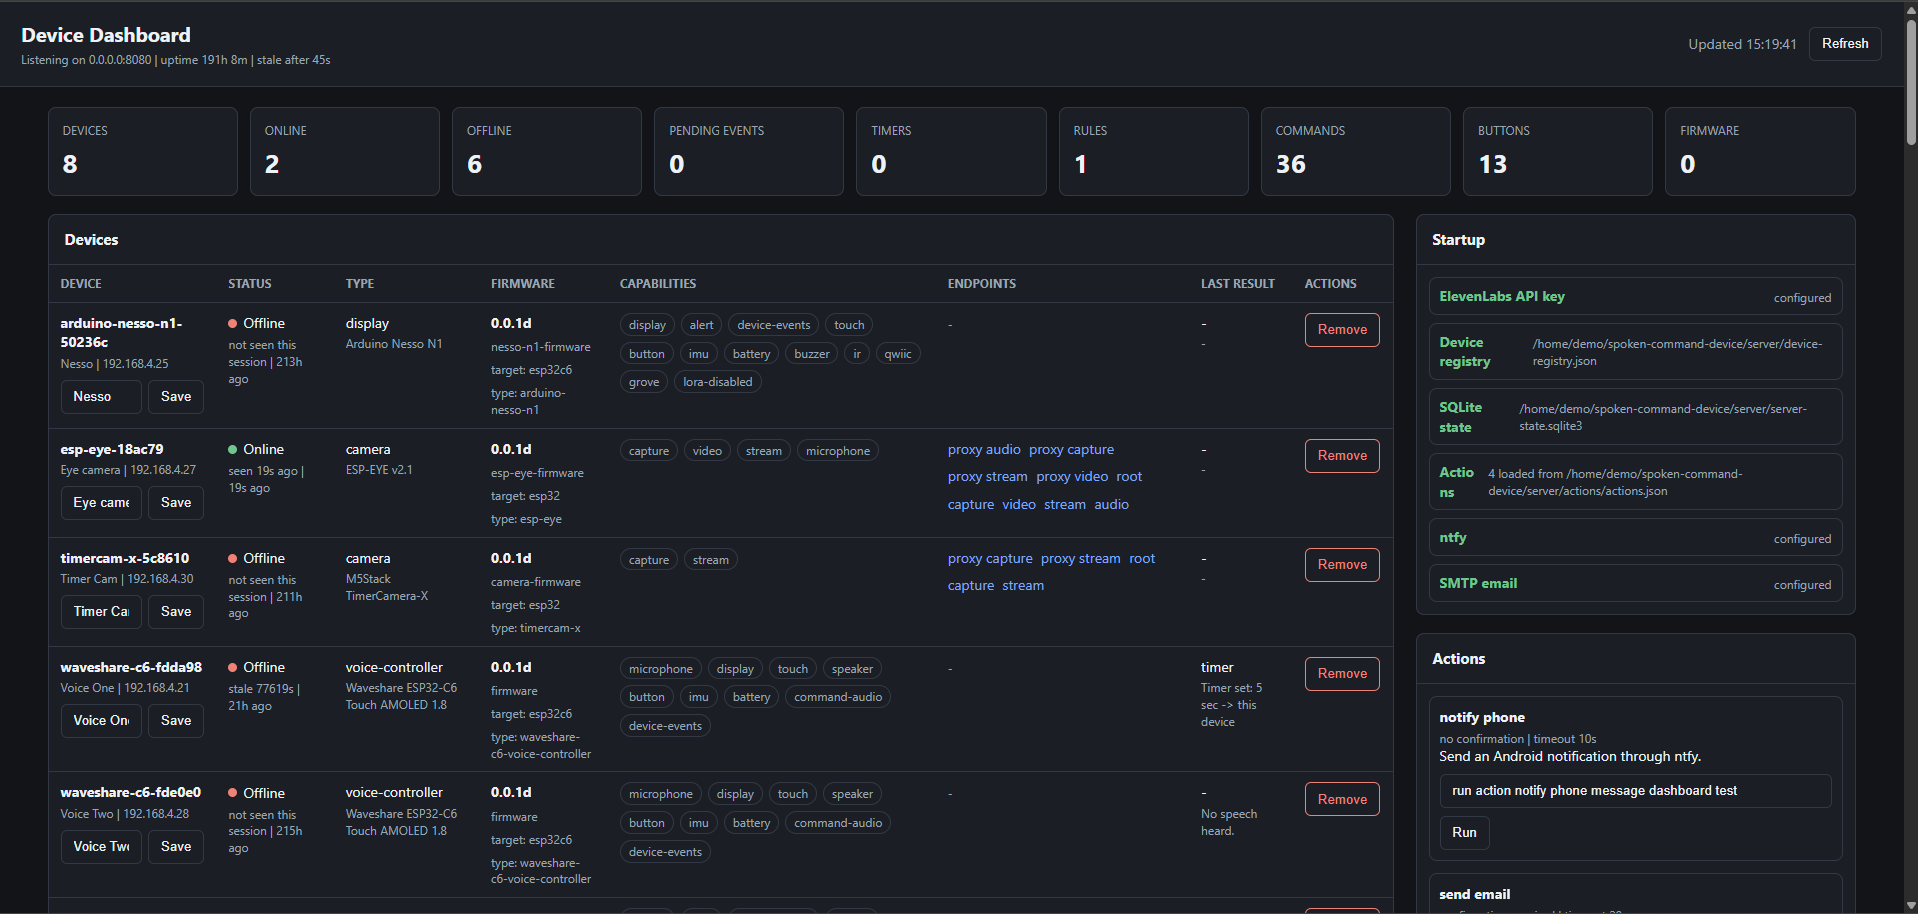
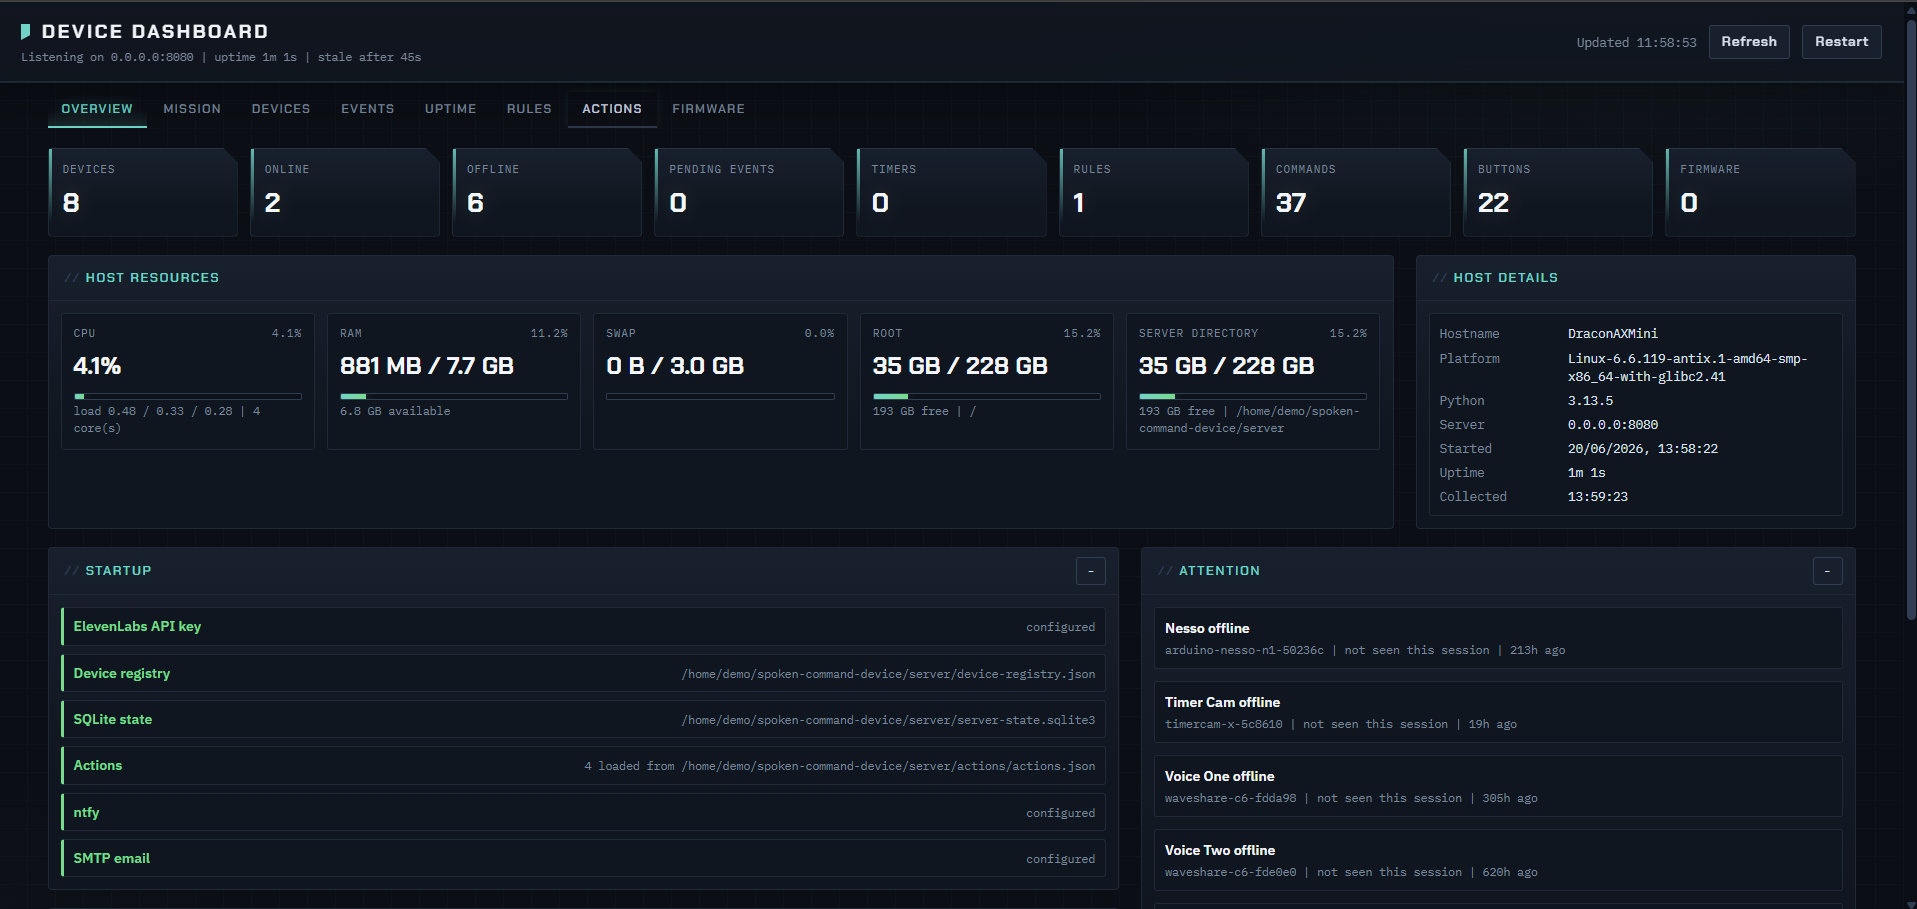
Update ESP Home Server project — new dashboard screenshots and relay server
Adds four new screenshots (dashboard devices/device-details tabs, relay
server devices and events views) and updates the description, overview,
and highlights to reflect the redesigned dashboard and the new relay server
for authenticated external access.

diff --git a/src/lib/data.ts b/src/lib/data.ts
@@ -277,18 +277,20 @@ export const projects: Project[] = [
     period: "Active",
     type: "personal",
     description:
-      "A local command-and-control network for ESP32 devices. Voice commands stream from a handheld controller to a Python server, which transcribes, interprets, and dispatches events to a mesh of displays, cameras, and button nodes.",
+      "A local command-and-control network for ESP32 devices. Voice commands stream from a handheld controller to a Python server, which transcribes, interprets, and dispatches events to a mesh of displays, cameras, and button nodes. A relay server provides authenticated external access to the dashboard from outside the local network.",
     overview: [
       "ESP Home Server is a local-network-first home automation system built around a network of ESP32 devices. A handheld voice controller (Waveshare ESP32-C6 Touch AMOLED) streams hold-to-record mono PCM audio to a Python HTTP server over Wi-Fi. The server transcribes with ElevenLabs, resolves the command through a registry, and dispatches events to registered devices — displays, cameras, button nodes — which poll or expose endpoints depending on their role.",
-      "The system supports multi-turn conversations (a 'set timer' command prompts for duration if not supplied), a script-based action registry for packaged server-side tasks, and a browser dashboard showing device state, recent commands, and proxied camera feeds. Each firmware project is a standalone ESP-IDF build targeting different chips — ESP32-C6 for the voice controller and display nodes, ESP32-C3 for button nodes, standard ESP32 for camera modules. The server persists the device registry, command history, and a local firmware catalog for future OTA rollout.",
+      "The system supports multi-turn conversations (a 'set timer' command prompts for duration if not supplied), a script-based action registry for packaged server-side tasks, and an expanded browser dashboard showing device state, recent commands, startup diagnostics, active timers, and action test controls. A relay server enables authenticated external access to the dashboard and device feeds from outside the local network, with a Windows pairing agent that keeps the relay informed of the server's current IP. Each firmware project is a standalone ESP-IDF build targeting different chips — ESP32-C6 for the voice controller and display nodes, ESP32-C3 for button nodes, standard ESP32 for camera modules. The server persists the device registry, command history, and a local firmware catalog for future OTA rollout.",
     ],
     highlights: [
       "Waveshare ESP32-C6 Touch AMOLED voice controller streaming chunked PCM to a local Python server",
       "ElevenLabs speech-to-text → command registry → device event dispatch pipeline",
       "Multi-turn conversation support — commands can prompt for missing parameters before resolving",
-      "Browser dashboard showing device online state, recent commands, and proxied camera feeds",
+      "Relay server for authenticated external access to the dashboard and device feeds",
+      "Windows tray pairing agent keeping the relay updated with the server's current local IP",
+      "Browser dashboard with device state, recent commands, diagnostics, timers, and action controls",
       "Media proxy routing camera and audio streams through the server to prevent device overload",
-      "Seven ESP-IDF firmware projects across ESP32-C6, ESP32-C3, and ESP32 device families",
+      "Eight ESP-IDF firmware projects across ESP32-C6, ESP32-C3, and ESP32 device families",
       "Local firmware catalog with semantic versioning (d/s/p channels) for future OTA rollout",
     ],
     tags: ["Python", "ESP32", "ESP-IDF", "C", "C++", "ElevenLabs", "HTTP", "Firmware", "Hardware"],
@@ -297,8 +299,32 @@ export const projects: Project[] = [
       {
         src: "/assets/esp home/sc_dashboard.png",
         type: "image",
-        caption: "Browser dashboard — device state, recent commands, and proxied camera feeds",
+        caption: "Browser dashboard — device state, recent commands, diagnostics, and action controls",
         cols: 12,
+      },
+      {
+        src: "/assets/esp home/sc_dashboard_devices.png",
+        type: "image",
+        caption: "Dashboard devices tab — registered devices with online/offline state",
+        cols: 6,
+      },
+      {
+        src: "/assets/esp home/sc_dashboard_deviceDetails.png",
+        type: "image",
+        caption: "Device details — firmware version, capabilities, and event queue",
+        cols: 6,
+      },
+      {
+        src: "/assets/esp home/sc_relay_devices.png",
+        type: "image",
+        caption: "Relay server — connected devices registered for external access",
+        cols: 6,
+      },
+      {
+        src: "/assets/esp home/sc_relay_events.png",
+        type: "image",
+        caption: "Relay server — event log for proxied external requests",
+        cols: 6,
       },
     ],
   },
